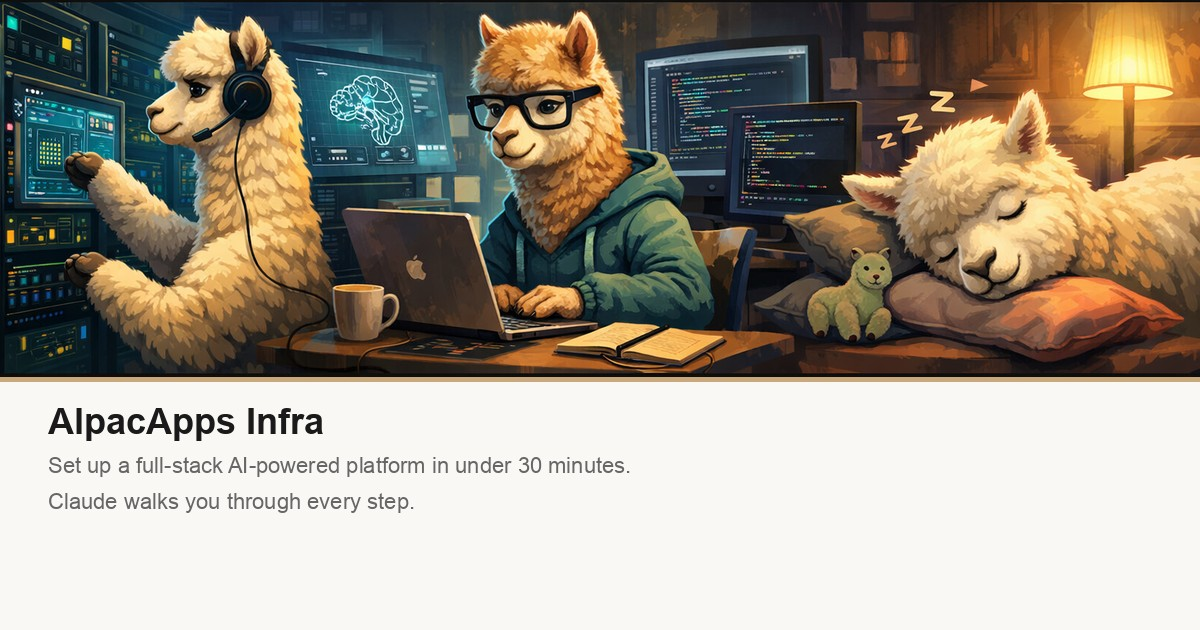
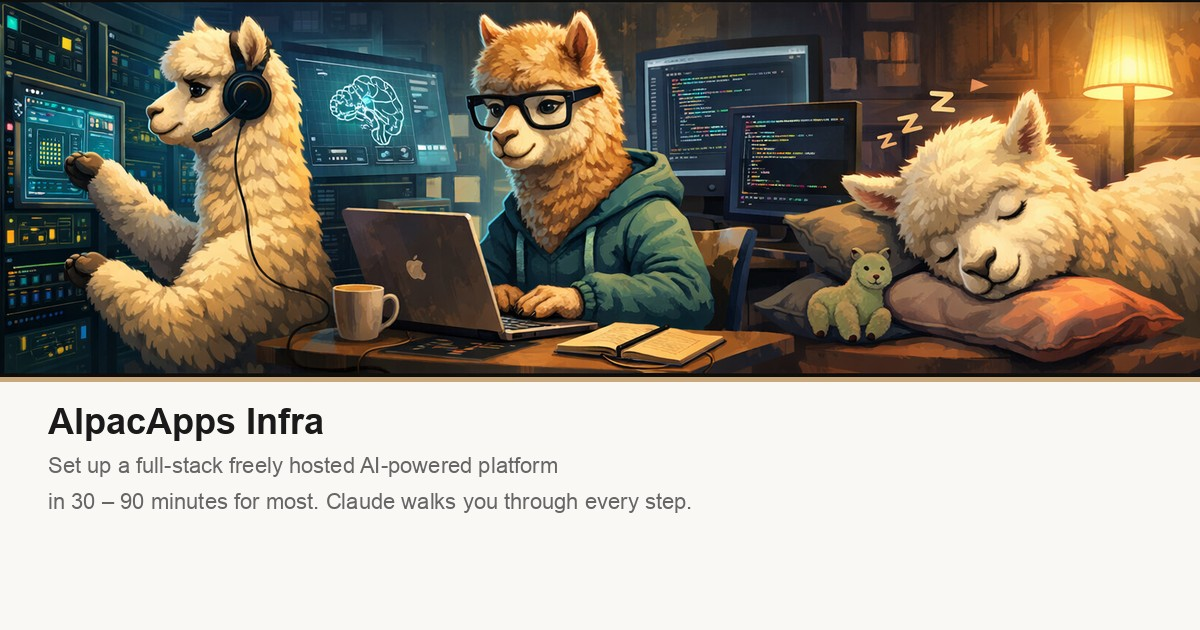
Update infra description: freely hosted, 30-90 minutes

Changed region(s): [[0.0308, 0.7841, 0.5858, 0.8143], [0.185, 0.7238, 0.5242, 0.754]]

diff --git a/infra/index.html b/infra/index.html
@@ -4,9 +4,9 @@
   <meta charset="UTF-8">
   <meta name="viewport" content="width=device-width, initial-scale=1.0">
   <title>AlpacApps Infra — Set Up Your AI-Powered Platform</title>
-  <meta name="description" content="Set up a full-stack AI-powered platform in under 30 minutes. Claude walks you through every step.">
+  <meta name="description" content="Set up a full-stack freely hosted AI-powered platform in 30 – 90 minutes for most. Claude walks you through every step.">
   <meta property="og:title" content="AlpacApps Infra — Set Up Your AI-Powered Platform">
-  <meta property="og:description" content="Set up a full-stack AI-powered platform in under 30 minutes. Claude walks you through every step.">
+  <meta property="og:description" content="Set up a full-stack freely hosted AI-powered platform in 30 – 90 minutes for most. Claude walks you through every step.">
   <meta property="og:image" content="https://alpacaplayhouse.com/infra/og-infra.jpg">
   <meta property="og:image:width" content="1200">
   <meta property="og:image:height" content="630">
@@ -17,7 +17,7 @@
   <meta property="og:locale" content="en_US">
   <meta name="twitter:card" content="summary_large_image">
   <meta name="twitter:title" content="AlpacApps Infra — Set Up Your AI-Powered Platform">
-  <meta name="twitter:description" content="Set up a full-stack AI-powered platform in under 30 minutes. Claude walks you through every step.">
+  <meta name="twitter:description" content="Set up a full-stack freely hosted AI-powered platform in 30 – 90 minutes for most. Claude walks you through every step.">
   <meta name="twitter:image" content="https://alpacaplayhouse.com/infra/og-infra.jpg">
   <meta name="twitter:image:alt" content="AlpacApps Infra — AI-powered platform setup wizard">
   <link rel="icon" type="image/png" href="/favicon.png">
@@ -614,7 +614,7 @@
     <img src="https://aphrrfprbixmhissnjfn.supabase.co/storage/v1/object/public/housephotos/ai-gen/alpaca-wide-ai-banner.png" alt="AlpacApps — AI-powered platform with alpacas" class="hero-image" width="1509" height="475">
     <div class="hero-text">
       <h1><span>AlpacApps</span> Infra</h1>
-      <p><strong>Set up a full-stack AI-powered platform in under 30 minutes.</strong> Claude walks you through every step &mdash; adapting to your computer, your accounts, and what you want to build. Just install Claude and paste one prompt.</p>
+      <p><strong>Set up a full-stack freely hosted AI-powered platform in 30 – 90 minutes for most.</strong> Claude walks you through every step &mdash; adapting to your computer, your accounts, and what you want to build. Just install Claude and paste one prompt.</p>
       <span class="badge">$20 &ndash; $200 / month</span>
     </div>
   </div>
